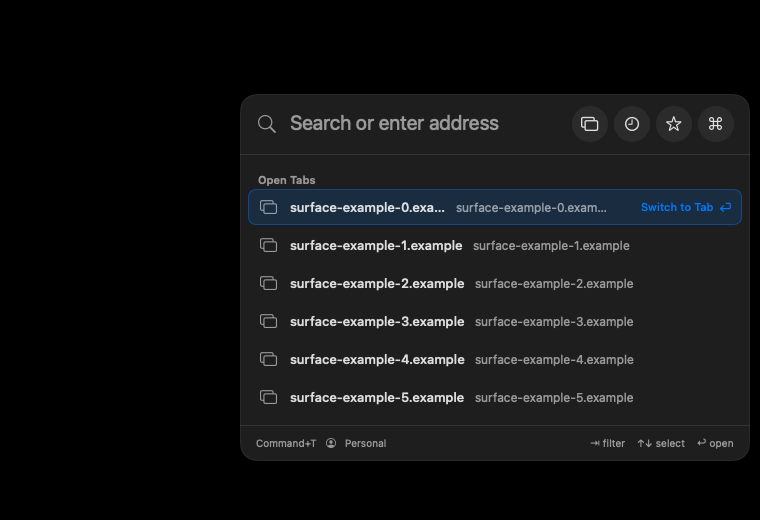
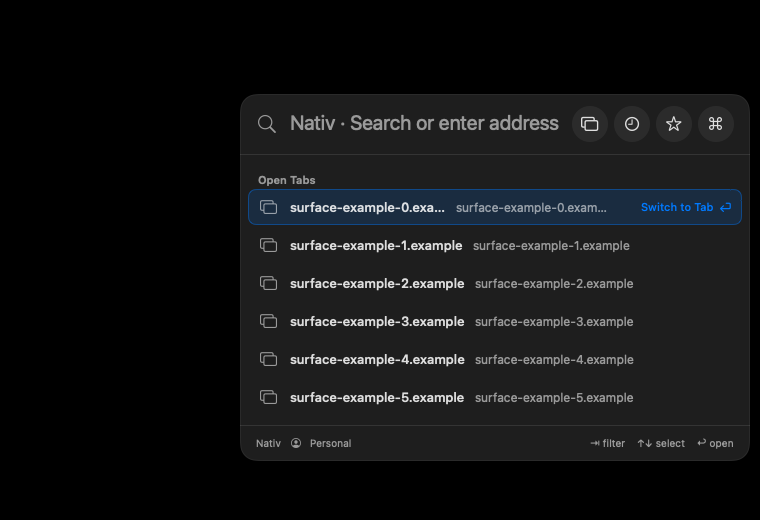
Name the Command+T interface Nativ (#1103)
* feat(command): name launcher Nativ (Fixes #1056)

* fix(l10n): cover development controls on production

Changed region(s): [[0.3632, 0.2154, 0.7566, 0.2462], [0.3329, 0.8308, 0.5145, 0.8615]]

diff --git a/website/src/components/demo.ts b/website/src/components/demo.ts
@@ -6,6 +6,7 @@
 // Command-T from the address, and open the site controls. Page content is a real capture of
 // each site. Behavior lives in src/demo.ts; without JavaScript the first Space shows statically.
 
+import { commandInterfaceName } from "../content";
 import { escapeHtml } from "../html";
 
 export interface DemoTab {
@@ -99,8 +100,8 @@ function siteControls(): string {
 }
 
 function launcher(): string {
-  return `<div class="demo-launcher" role="dialog" aria-label="Command-T" hidden>
-    <label class="demo-launcher-field">${icon.search}<input type="text" placeholder="Search tabs or enter an address" autocomplete="off" spellcheck="false" aria-label="Search tabs or enter an address"></label>
+  return `<div class="demo-launcher" role="dialog" aria-label="${commandInterfaceName}" hidden>
+    <label class="demo-launcher-field">${icon.search}<input type="text" placeholder="Search with ${commandInterfaceName} or enter an address" autocomplete="off" spellcheck="false" aria-label="Search with ${commandInterfaceName} or enter an address"></label>
     <ul class="demo-results" role="listbox"></ul>
   </div>`;
 }
@@ -122,13 +123,13 @@ export function ShaarDemo(): string {
       <div class="demo-main">
         <div class="demo-toolbar">
           <span class="demo-icon" aria-hidden="true">${icon.back}</span><span class="demo-icon" aria-hidden="true">${icon.forward}</span><span class="demo-icon" aria-hidden="true">${icon.reload}</span>
-          <button type="button" class="demo-address" data-launcher aria-label="Open Command-T">${icon.lock}<span data-host>arcusis.com</span></button>
+          <button type="button" class="demo-address" data-launcher aria-label="Open ${commandInterfaceName}">${icon.lock}<span data-host>arcusis.com</span></button>
           <button type="button" class="demo-icon demo-controls-button" data-controls aria-label="Site controls" aria-expanded="false">${icon.sliders}</button>
         </div>
         <div class="demo-page">${pages()}</div>
         ${launcher()}${siteControls()}
       </div>
     </div>
-    <p class="demo-hint">This is a working copy of Shaar. Click a tab, switch Spaces with the dots, or click the address to open Command-T.</p>
+    <p class="demo-hint">This is a working copy of Shaar. Click a tab, switch Spaces with the dots, or click the address to open ${commandInterfaceName}.</p>
   </div>`;
 }

diff --git a/website/src/components/home.ts b/website/src/components/home.ts
@@ -2,7 +2,7 @@
 // License, v. 2.0. If a copy of the MPL was not distributed with this
 // file, You can obtain one at https://mozilla.org/MPL/2.0/.
 
-import { release, repository, type SitePage, screens } from "../content";
+import { commandInterfaceName, release, repository, type SitePage, screens } from "../content";
 import { escapeHtml } from "../html";
 import { ShaarDemo } from "./demo";
 import { Landscape, SkyControl } from "./landscape";
@@ -58,7 +58,7 @@ const steps: Step[] = [
   {
     id: "step-launcher",
     screen: "launcher",
-    title: "Command-T finds tabs, pages and commands",
+    title: `${commandInterfaceName} finds tabs, pages and commands`,
     body: "Type to search open tabs, history, bookmarks and browser actions. Arrow keys pick a result and Return opens it.",
     keys: ["⌘", "T"],
   },
@@ -93,7 +93,7 @@ function Story(): string {
     )
     .join("");
   return `<section class="story" id="spaces" aria-labelledby="story-title">
-    <header class="section-head"><h2 id="story-title">Tabs, accounts and pages, each in its place</h2><p>Spaces hold your tabs, profiles hold your accounts, and Command-T finds any page.</p></header>
+    <header class="section-head"><h2 id="story-title">Tabs, accounts and pages, each in its place</h2><p>Spaces hold your tabs, profiles hold your accounts, and ${commandInterfaceName} finds any page.</p></header>
     <div class="story-grid" data-active="0"><div class="story-steps">${steps.map(StepCopy).join("")}</div><div class="story-stage" aria-hidden="true"><div class="story-sticky">${shots}</div></div></div>
   </section>`;
 }
@@ -116,8 +116,7 @@ export function HomePage(): string {
   const page: SitePage = {
     path: "/",
     title: "Shaar · Your gateway to the web",
-    description:
-      "Shaar is a Mac browser built on Chromium with Spaces, separate profiles and a Command-T launcher. Free and open source, in public beta.",
+    description: `Shaar is a Mac browser built on Chromium with Spaces, separate profiles and ${commandInterfaceName} search. Free and open source, in public beta.`,
     heading: "",
     body: "",
   };

diff --git a/Sources/ArcusisBrowser/CommandPanel.swift b/Sources/ArcusisBrowser/CommandPanel.swift
@@ -7,7 +7,14 @@ import BrowserCore
 import SwiftUI
 
 struct CommandPanel: View {
-  static let displayName = "Command+T"
+  static let displayName = "Nativ"
+  static var localizedDisplayName: String { ShellL10n.string(displayName) }
+  static var searchPrompt: String {
+    "\(localizedDisplayName) · \(ShellL10n.string("Search or enter address"))"
+  }
+  static var accessibilityDescription: String {
+    "\(localizedDisplayName). \(ShellL10n.string("Search tabs, spaces, or the web"))"
+  }
   @Bindable var store: BrowserStore
   let resultsHeight: CGFloat
   @Environment(\.accessibilityReduceMotion) private var reduceMotion
@@ -104,7 +111,7 @@ struct CommandPanel: View {
       return .handled
     }
     .onExitCommand { store.dismissCommand() }
-    .accessibilityLabel(ShellL10n.string("Search tabs, spaces, or the web"))
+    .accessibilityLabel(Self.accessibilityDescription)
   }
 
   private var searchRow: some View {
@@ -112,7 +119,7 @@ struct CommandPanel: View {
       Image(systemName: "magnifyingglass")
         .font(.system(size: 19, weight: .light))
         .foregroundStyle(.secondary)
-      TextField(ShellL10n.string("Search or enter address"), text: $store.commandQuery)
+      TextField(Self.searchPrompt, text: $store.commandQuery)
         .textFieldStyle(.plain)
         .font(.system(size: 20))
         .focused($searchIsFocused)
@@ -229,7 +236,7 @@ struct CommandPanel: View {
 
   private var footer: some View {
     HStack {
-      Text(Self.displayName)
+      Text(Self.localizedDisplayName)
       Label(store.profileName, systemImage: "person.crop.circle")
       Spacer()
       ShellL10n.text("⇥ filter    ↑↓ select    ↩ open")

diff --git a/website/src/content.ts b/website/src/content.ts
@@ -5,6 +5,7 @@
 export const repository = "https://github.com/arcusis/shaar";
 export const siteOrigin = "https://shaar.arcusis.com";
 export const appcast = "https://arcusis.github.io/shaar/appcast.xml";
+export const commandInterfaceName = "Nativ";
 
 // Published release snapshot. Update alongside a published release, not an unreleased version bump.
 export const release = {
@@ -17,7 +18,7 @@ export const release = {
   zip: `${repository}/releases/download/v0.1.0/Shaar-0.1.0-macos.zip`,
   highlights: [
     "Spaces and profiles with separate sign-ins, profile colors and step-by-step onboarding for Google and Microsoft accounts, including work accounts.",
-    "Command-T launcher with suggestions, filters and actions.",
+    `${commandInterfaceName} search with suggestions, filters and actions.`,
     "Clean links: Command-Shift-C copies the current link without tracking parameters.",
     "Chrome Web Store extensions, managed per profile.",
     "Search engines per profile, private windows and a Library for downloads.",
@@ -51,7 +52,7 @@ export const screens = {
     file: "command-t.png",
     width: 2880,
     height: 1920,
-    alt: "Command-T launcher searching for freight across history, open tabs and Spaces",
+    alt: `${commandInterfaceName} searching for freight across history, open tabs and Spaces`,
   },
   siteControls: {
     file: "site-controls.png",

diff --git a/Sources/ArcusisBrowser/PageAddressField.swift b/Sources/ArcusisBrowser/PageAddressField.swift
@@ -18,17 +18,18 @@ struct PageAddressField: View {
   }
 
   static func accessibilityLabel(for url: URL?) -> String {
-    guard let url else { return ShellL10n.string("Search or enter address") }
-    return ShellL10n.format(
+    guard let url else { return CommandPanel.searchPrompt }
+    let address = ShellL10n.format(
       "Current address: %@. Search or enter address",
       arguments: [.string(url.absoluteString)])
+    return "\(CommandPanel.localizedDisplayName). \(address)"
   }
 
   private func displayAddress(for url: URL?) -> String {
     if developmentModeEnabled, let url, DevelopmentPage.detect(url: url).isDevelopmentPage {
       return url.absoluteString
     }
-    return Self.displayAddress(for: url) ?? ShellL10n.string("Search or enter address")
+    return Self.displayAddress(for: url) ?? CommandPanel.searchPrompt
   }
 
   var body: some View {
@@ -53,6 +54,6 @@ struct PageAddressField: View {
     }
     .accessibilityLabel(Self.accessibilityLabel(for: url))
     .browserChromeControl("browser.chrome.address")
-    .help(url?.absoluteString ?? ShellL10n.string("Search or enter address"))
+    .help(url?.absoluteString ?? CommandPanel.searchPrompt)
   }
 }

diff --git a/Tests/BrowserAppTests/NativeMenuStructureTests.swift b/Tests/BrowserAppTests/NativeMenuStructureTests.swift
@@ -103,7 +103,7 @@ import Testing
   #expect(item("New Private Window")?.keyEquivalent == "n")
   #expect(item("New Private Window")?.keyEquivalentModifierMask == [.command, .shift])
   #expect(item("New tab")?.keyEquivalent == "t")
-  #expect(item("Search or enter address")?.keyEquivalent == "l")
+  #expect(item(CommandPanel.searchPrompt)?.keyEquivalent == "l")
   #expect(item("Close tab")?.keyEquivalentModifierMask == .command)
   #expect(item("Close window")?.keyEquivalentModifierMask == [.command, .shift])
   #expect(item("Find in Page…")?.keyEquivalent == "f")

diff --git a/Tests/BrowserCoreTests/BrowserLocalizationTests.swift b/Tests/BrowserCoreTests/BrowserLocalizationTests.swift
@@ -59,6 +59,11 @@ import Testing
   #expect(restored.spaces.map(\.name) == ["Personal", "Work"])
 }
 
+@Test func nativHasItsHebrewDisplayName() {
+  #expect(BrowserLocalization.string("Nativ", table: "Shell", language: .english) == "Nativ")
+  #expect(BrowserLocalization.string("Nativ", table: "Shell", language: .hebrew) == "נתיב")
+}
+
 @Test func languageResolverHonorsOverridesAliasesAndUnsupportedPreferences() {
   #expect(
     BrowserLanguage.resolve(selection: .systemDefault, preferredLanguages: ["he-IL", "en-US"])

diff --git a/Sources/ArcusisBrowser/NativeBrowserHost.swift b/Sources/ArcusisBrowser/NativeBrowserHost.swift
@@ -1222,7 +1222,7 @@ final class NativeBrowserHost: NSObject, NSMenuItemValidation, NSMenuDelegate {
     add(.newPrivateWindow, "New Private Window", to: file)
     add(.newMiniWindow, "New Mini Window", to: file)
     add(.newTab, "New tab", to: file)
-    add(.search, "Search or enter address", to: file)
+    add(.search, CommandPanel.searchPrompt, to: file)
     add(.sharePage, "Share Page…", to: file)
     add(.downloads, "Downloads", to: file)
     add(.closeWindow, "Close window", to: file)

diff --git a/Sources/ArcusisBrowser/ArcusisBrowser.swift b/Sources/ArcusisBrowser/ArcusisBrowser.swift
@@ -366,7 +366,7 @@ private struct BrowserApplication: App {
       SpaceCommands(store: store)
       CommandGroup(replacing: .newItem) {
         Button(ShellL10n.string("New tab")) { store.showCommand() }.keyboardShortcut("t")
-        Button(ShellL10n.string("Search or enter address")) {
+        Button(CommandPanel.searchPrompt) {
           store.showCommand()
           store.commandEditsCurrentURL = true
           store.commandQuery = store.session.selectedPage?.tab.url.absoluteString ?? ""

diff --git a/Tests/BrowserAppTests/PageChromeLayoutTests.swift b/Tests/BrowserAppTests/PageChromeLayoutTests.swift
@@ -24,7 +24,9 @@ final class PageChromeLayoutTests: XCTestCase {
     XCTAssertNotEqual(label, PageAddressField.accessibilityLabel(for: nil))
     XCTAssertEqual(
       PageAddressField.accessibilityLabel(for: nil),
-      ShellL10n.string("Search or enter address"))
+      CommandPanel.searchPrompt)
+    XCTAssertEqual(CommandPanel.displayName, "Nativ")
+    XCTAssertTrue(label.contains(CommandPanel.localizedDisplayName))
   }
 
   func testPageCardUsesArcInsetsAndCornerRadius() {

diff --git a/Sources/ArcusisBrowser/BrowserWindow.swift b/Sources/ArcusisBrowser/BrowserWindow.swift
@@ -244,7 +244,7 @@ struct BrowserWindow: View {
             } label: {
               HStack {
                 Image(systemName: "magnifyingglass")
-                ShellL10n.text("Search or enter address")
+                Text(CommandPanel.searchPrompt)
                 Spacer(minLength: 40)
                 ShellL10n.text("⌘T").foregroundStyle(.tertiary)
               }

diff --git a/Sources/ArcusisBrowser/PrivateStartPage.swift b/Sources/ArcusisBrowser/PrivateStartPage.swift
@@ -67,7 +67,7 @@ struct PrivateStartPage: View {
         } label: {
           HStack {
             Image(systemName: "magnifyingglass")
-            ShellL10n.text("Search or enter address")
+            Text(CommandPanel.searchPrompt)
             Spacer(minLength: 40)
             ShellL10n.text("⌘T").foregroundStyle(.tertiary)
           }
